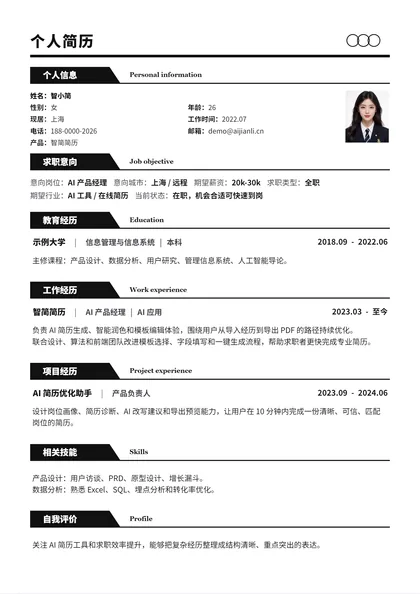
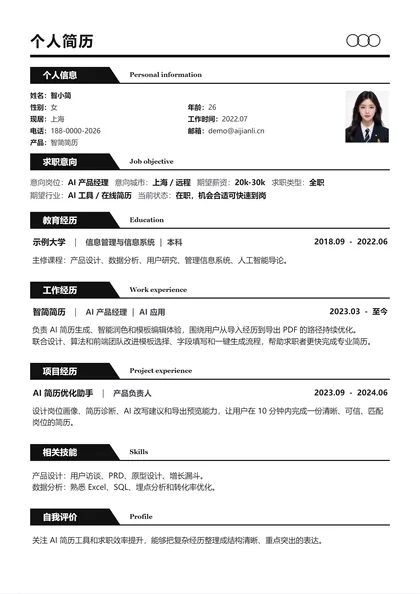
fix(templates): normalize header spacing and honor zero module gaps

diff --git a/src/templates/ziji/index.tsx b/src/templates/ziji/index.tsx
@@ -182,10 +182,11 @@ export default function ZijiTemplate(props: TemplateProps): ReactElement {
   const palette = useMemo(() => buildZijiPalette(theme.primaryColor), [theme.primaryColor])
   const primaryColor = palette.primary
   const titleScale = Math.min(1.2, Math.max(0.86, theme.titleScale ?? 1))
-  const spacingScale = Math.max(0.72, theme.spacingScale)
+  const spacingScale = Math.max(0, theme.spacingScale)
   const contentLineHeight = Math.max(1.18, theme.lineHeight)
   const panelPadX = Math.max(42, mmToPx(theme.pagePaddingHorizontal) * 0.9)
-  const panelPadTop = Math.max(32, mmToPx(theme.pagePaddingVertical) * 0.48)
+  // The panel follows the hero; its top inset is not another page margin.
+  const panelPadTop = 34 * spacingScale
   const panelPadBottom = Math.max(38, mmToPx(theme.pagePaddingVertical) * 0.58)
   const sideColumnWidth = Math.max(166, 174 + (panelPadX - 51) * 0.25)
   const railColumnWidth = 42
@@ -298,17 +299,6 @@ export default function ZijiTemplate(props: TemplateProps): ReactElement {
         }}
       >
         <div className="ziji-root" style={{ position: 'relative', minHeight: '297mm', overflow: 'hidden', backgroundColor: '#fff' }}>
-          <div
-            aria-hidden
-            data-ziji-hero-backdrop="true"
-            className="absolute inset-x-0 top-0"
-            style={{
-              height: 260,
-              background: palette.heroGradient,
-              zIndex: 0,
-            }}
-          />
-
           <ZijiHero
             header={header}
             title={headerTitle}
@@ -338,7 +328,7 @@ export default function ZijiTemplate(props: TemplateProps): ReactElement {
               }}
             >
               <ColumnDroppable id={COLUMN_LEFT_ID}>
-                <aside data-ziji-column="left" style={{ paddingTop: 3, minHeight: 360 }}>
+                <aside data-ziji-column="left" style={{ paddingTop: 0, minHeight: 360 }}>
                   {isJobIntentionVisible ? (
                     <SideJobInfo
                       jobIntention={jobIntention}
@@ -425,11 +415,17 @@ function ZijiHero(props: {
     <section
       className="relative overflow-visible"
       style={{
-        height: 216,
+        minHeight: header.baseInfo?.showAvatar === false ? 216 : 228,
         background: heroGradient,
         zIndex: 1,
       }}
     >
+      <div
+        aria-hidden
+        data-ziji-hero-backdrop="true"
+        className="absolute inset-x-0 top-0"
+        style={{ bottom: '-20%', background: heroGradient, zIndex: -1 }}
+      />
       <div
         aria-hidden
         className="absolute right-5 top-4 text-right font-bold uppercase tracking-[2px] text-white/20"
@@ -473,7 +469,7 @@ function ZijiHero(props: {
         )}
       />
 
-      <div className="absolute text-white" style={{ left: 252, right: 42, top: 88 }}>
+      <div className="relative text-white" style={{ marginLeft: 252, marginRight: 42, paddingTop: 88, paddingBottom: 12 }}>
         <div className="font-bold tracking-normal" style={{ fontSize: '2.25em', lineHeight: 1 }}>
           Hello,I'm
         </div>

diff --git a/src/templates/lanmu/index.tsx b/src/templates/lanmu/index.tsx
@@ -165,10 +165,11 @@ export default function LanmuTemplate(props: TemplateProps): ReactElement {
   const palette = useMemo(() => buildLanmuPalette(theme.primaryColor), [theme.primaryColor])
   const primaryColor = palette.primary
   const titleScale = Math.min(1.2, Math.max(0.86, theme.titleScale ?? 1))
-  const spacingScale = Math.max(0.72, theme.spacingScale)
+  const spacingScale = Math.max(0, theme.spacingScale)
   const contentLineHeight = Math.max(1.18, theme.lineHeight)
   const pagePadX = Math.max(0, mmToPx(theme.pagePaddingHorizontal) * 0.72)
-  const pagePadTop = Math.max(26, mmToPx(theme.pagePaddingVertical) * 0.46)
+  // Combine the former 34px gap and ~32px inset into one scalable hero gap.
+  const pagePadTop = 66 * spacingScale
   const pagePadBottom = Math.max(34, mmToPx(theme.pagePaddingVertical) * 0.58)
   const sideColumnWidth = Math.max(150, 164 + (pagePadX - 37) * 0.18)
   const railColumnWidth = 52
@@ -292,7 +293,7 @@ export default function LanmuTemplate(props: TemplateProps): ReactElement {
             className="relative"
             style={{
               minHeight: 820,
-              marginTop: 34,
+              marginTop: 0,
               padding: `${pagePadTop}px ${pagePadX}px ${pagePadBottom}px ${pagePadX}px`,
               zIndex: 1,
               background: '#fff',
@@ -390,7 +391,9 @@ function LanmuHero(props: {
     <section
       className="relative overflow-visible"
       style={{
-        height: 192,
+        minHeight: header.baseInfo?.showAvatar === false ? 192 : 193,
+        display: 'grid',
+        gridTemplateColumns: '240px minmax(0, 1fr)',
         background: '#fff',
         zIndex: 1,
       }}
@@ -446,19 +449,18 @@ function LanmuHero(props: {
       />
 
       <div
-        className="absolute text-white"
+        className="relative text-white"
         data-template-base-info-trigger="true"
         role="button"
         tabIndex={0}
         style={{
-          left: 240,
-          top: 0,
-          right: 0,
-          height: 192,
+          gridColumn: 2,
+          minHeight: 192,
           borderBottomLeftRadius: 40,
           background: heroGradient,
           paddingLeft: 36,
           paddingTop: 43,
+          paddingBottom: 12,
         }}
         onClick={header.openEditModal}
         onKeyDown={(event) => runClickActionOnKey(event, header.openEditModal)}

diff --git a/src/app/dev/template-lab/template-lab-client.tsx b/src/app/dev/template-lab/template-lab-client.tsx
@@ -22,15 +22,24 @@ export default function TemplateLabClient(): ReactElement {
   const templateId = TEMPLATE_REGISTRY[requestedTemplateId] ? requestedTemplateId : 'simple'
   const fixtureId = normalizeFixtureId(searchParams.get('fixture'))
   const themeId = normalizeThemeId(searchParams.get('theme'))
+  const spacingOverride = searchParams.get('spacing')
+  const hideJobIntention = searchParams.get('job') === 'hidden'
   const viewport = searchParams.get('viewport') === 'mobile' ? 'mobile' : 'pc'
-  const resume: ResumeData = useMemo(() => getTemplateFixture(fixtureId), [fixtureId])
-  const theme: ThemeTokens = useMemo(() => getTemplateLabTheme(themeId), [themeId])
+  const resume: ResumeData = useMemo(() => {
+    const fixture = getTemplateFixture(fixtureId)
+    return hideJobIntention ? { ...fixture, jobIntentionVisible: false } : fixture
+  }, [fixtureId, hideJobIntention])
+  const theme: ThemeTokens = useMemo(() => {
+    const base = getTemplateLabTheme(themeId)
+    const scale = spacingOverride === null ? NaN : Number(spacingOverride)
+    return Number.isFinite(scale) && scale >= 0 && scale <= 3 ? { ...base, spacingScale: scale } : base
+  }, [themeId, spacingOverride])
   const Template = TEMPLATE_REGISTRY[templateId]?.component
   const setReadOnly = useAppStore((s) => s.setReadOnly)
   const setResume = useAppStore((s) => s.setResume)
   const titleScale: number = theme.titleScale ?? 1
   const paragraphIndent: number = theme.paragraphIndent ?? 0
-  const labKey = `${templateId}:${fixtureId}:${themeId}:${viewport}`
+  const labKey = `${templateId}:${fixtureId}:${themeId}:${viewport}:${spacingOverride}:${hideJobIntention}`
   const [readyKey, setReadyKey] = useState<string | null>(null)
   const ready = readyKey === labKey
   const mobileScale = 0.46

diff --git a/src/templates/qingyun/index.tsx b/src/templates/qingyun/index.tsx
@@ -169,7 +169,7 @@ export default function QingyunTemplate(props: TemplateProps): ReactElement {
         )}
 
         {/* ——— MAIN SECTIONS ————————————————————————— */}
-        <main data-template-padding-probe="true" className="qingyun-page-content" style={{ ...pagePad, paddingTop: jobIntentionVisible ? 12 * theme.spacingScale : pagePad.paddingTop }}>
+        <main data-template-padding-probe="true" className="qingyun-page-content" style={{ ...pagePad, paddingTop: (jobIntentionVisible ? 12 : 24) * theme.spacingScale }}>
           {resume.sections.map((section: Section, index: number) => (
             <div key={section.id} style={{ marginBottom: index < resume.sections.length - 1 ? 26 * theme.spacingScale : 0 }}>
               <SortableSection sectionId={section.id}>

diff --git a/src/templates/elegant/index.tsx b/src/templates/elegant/index.tsx
@@ -344,7 +344,12 @@ export default function ElegantTemplate(props: ElegantTemplateProps): ReactEleme
       <div
         className="resume-body-content elegant-body-content print:!pb-0"
         data-template-padding-probe="true"
-        style={{ padding: bodyPadding }}
+        style={{
+          padding: bodyPadding,
+          // The full-width header already occupies the page top. This is a
+          // header-to-content gap, not another page margin inside the page.
+          paddingTop: `${24 * theme.spacingScale}px`,
+        }}
       >
         {isJobIntentionVisible ? (
           <div style={{ marginBottom: `${24 * theme.spacingScale}px` }}>

diff --git a/src/templates/lanjiao/index.tsx b/src/templates/lanjiao/index.tsx
@@ -57,7 +57,8 @@ export default function LanjiaoTemplate(props: TemplateProps): ReactElement {
   const pagePaddingVertical = Math.max(28, mmToPx(theme.pagePaddingVertical) * 0.88)
   const pagePaddingHorizontal = Math.max(0, mmToPx(theme.pagePaddingHorizontal) * 0.95)
   const heroHeight = 250
-  const contentPaddingTop = Math.max(18 * theme.spacingScale, pagePaddingVertical * 0.48)
+  // Space after the hero is module spacing, independent of the page margins.
+  const contentPaddingTop = 32 * theme.spacingScale
   const contentPaddingBottom = Math.max(34, pagePaddingVertical)
   const rootStyle: CssVars = {
     minHeight: '297mm',

diff --git a/src/templates/lanzhe/index.tsx b/src/templates/lanzhe/index.tsx
@@ -67,7 +67,7 @@ export default function LanzheTemplate(props: TemplateProps): ReactElement {
   const paleColor = lightenHex(primaryColor, 0.88)
   const titleScale = Math.min(1.18, Math.max(0.88, theme.titleScale ?? 1))
   const contentLineHeight = Math.max(1.25, theme.lineHeight)
-  const spacingScale = Math.max(0.78, theme.spacingScale)
+  const spacingScale = Math.max(0, theme.spacingScale)
   const pagePaddingHorizontal = Math.max(34, mmToPx(theme.pagePaddingHorizontal))
   const pagePaddingVertical = Math.max(36, mmToPx(theme.pagePaddingVertical))
   const paperLeft = pagePaddingHorizontal

diff --git a/src/templates/_originals/layouts/single-column.tsx b/src/templates/_originals/layouts/single-column.tsx
@@ -156,7 +156,7 @@ export function CampusLayout(props: {
         className="group relative"
         onClick={header.openEditModal}
         style={{
-          margin: `-${padV}px -${padH}px 34px`,
+          margin: `-${padV}px -${padH}px ${34 * theme.spacingScale}px`,
           padding: `44px ${padH}px 28px`,
           background: config.heroTone === 'soft'
             ? `linear-gradient(135deg, ${lightenHex(config.accent, 0.82)}, #ffffff)`

diff --git a/src/templates/xingtan/index.tsx b/src/templates/xingtan/index.tsx
@@ -142,7 +142,7 @@ export default function XingtanTemplate(props: TemplateProps): ReactElement {
           data-template-padding-probe="true"
           style={{
             ...pagePad,
-            paddingTop: jobIntentionVisible ? 10 * theme.spacingScale : pagePad.paddingTop,
+            paddingTop: (jobIntentionVisible ? 10 : 20) * theme.spacingScale,
           }}
         >
           {resume.sections.map((section: Section, i: number) => (

diff --git a/src/templates/mashang/index.tsx b/src/templates/mashang/index.tsx
@@ -134,7 +134,7 @@ export default function MashangTemplate(props: TemplateProps): ReactElement {
           className="mashang-page-content"
           style={{
             ...pagePad,
-            paddingTop: jobIntentionVisible ? 10 * theme.spacingScale : pagePad.paddingTop,
+            paddingTop: (jobIntentionVisible ? 10 : 18) * theme.spacingScale,
           }}
         >
           {resume.sections.map((section: Section, i: number) => (

diff --git a/src/templates/zhumo/index.tsx b/src/templates/zhumo/index.tsx
@@ -151,7 +151,7 @@ export default function ZhumoTemplate(props: TemplateProps): ReactElement {
           data-template-padding-probe="true"
           style={{
             ...pagePad,
-            paddingTop: jobIntentionVisible ? 10 * theme.spacingScale : pagePad.paddingTop,
+            paddingTop: (jobIntentionVisible ? 10 : 18) * theme.spacingScale,
           }}
         >
           {resume.sections.map((section: Section, i: number) => (

diff --git a/src/templates/_originals/components.tsx b/src/templates/_originals/components.tsx
@@ -32,7 +32,8 @@ import type { VariantConfig } from './types'
 import { SERIF } from './types'
 
 export function scaledSpacing(base: number, theme?: Pick<ThemeTokens, 'spacingScale'>): number {
-  const scale = Math.max(0.2, theme?.spacingScale ?? 1)
+  // Zero is an intentional setting. Keep minimum cell/decoration sizes local.
+  const scale = Math.max(0, theme?.spacingScale ?? 1)
   return Math.round(base * scale * 10) / 10
 }
 
